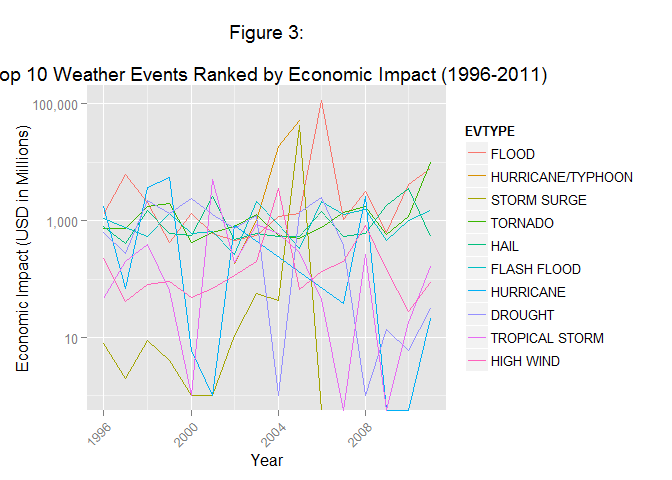
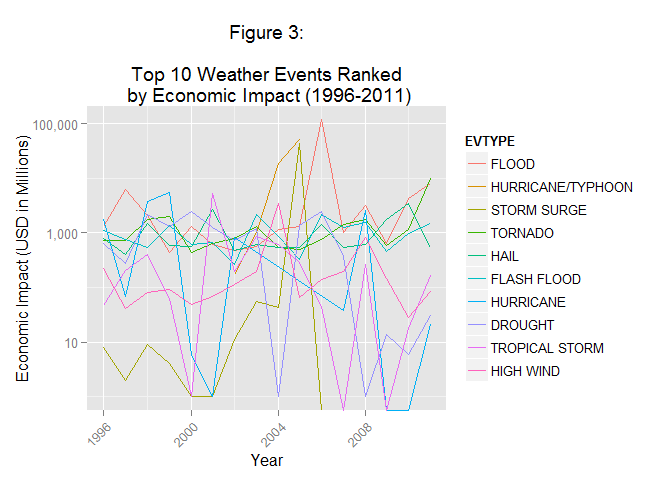
Final commit

Changed region(s): [[0.0, 0.125, 0.8125, 0.8438], [0.6875, 0.25, 0.9688, 0.7812], [0.625, 0.5938, 0.6562, 0.625]]

diff --git a/Project2/NOAA_Storm_Database_Analysis.html b/Project2/NOAA_Storm_Database_Analysis.html
@@ -220,7 +220,7 @@ plot3 &lt;- qplot(
     ,geom = &quot;line&quot;
     ,color = EVTYPE
     ,main = paste(
-        &quot;Figure 3:\n\nTop 10 Weather Events Ranked&quot;
+        &quot;Figure 3:\n\nTop 10 Weather Events Ranked\n&quot;
         ,&quot;by Economic Impact (1996-2011)&quot;
     )
     ,xlab = &quot;Year&quot;
@@ -230,7 +230,7 @@ plot3 &lt;- qplot(
     scale_y_log10(labels = comma)
 
 print(plot3)</code></pre>
[2 lines of base64/hex data omitted]
 <p>Figure 3 plots the top 10 weather event types ranked by their total economic impact in the United States from 1996-2011 as described in the <em>Data Processing</em> section above. This figure presents the data in a categorical line chart with discrete lines for each of the weather event types summed by year with a log(10) Y-axis scale to facilitate the visualization of trending and annual relationships between the event types.</p>
 </div>
 <div id="reference" class="section level2">

diff --git a/Project2/NOAA_Storm_Database_Analysis.md b/Project2/NOAA_Storm_Database_Analysis.md
@@ -235,7 +235,7 @@ plot3 <- qplot(
     ,geom = "line"
     ,color = EVTYPE
     ,main = paste(
-        "Figure 3:\n\nTop 10 Weather Events Ranked"
+        "Figure 3:\n\nTop 10 Weather Events Ranked\n"
         ,"by Economic Impact (1996-2011)"
     )
     ,xlab = "Year"
